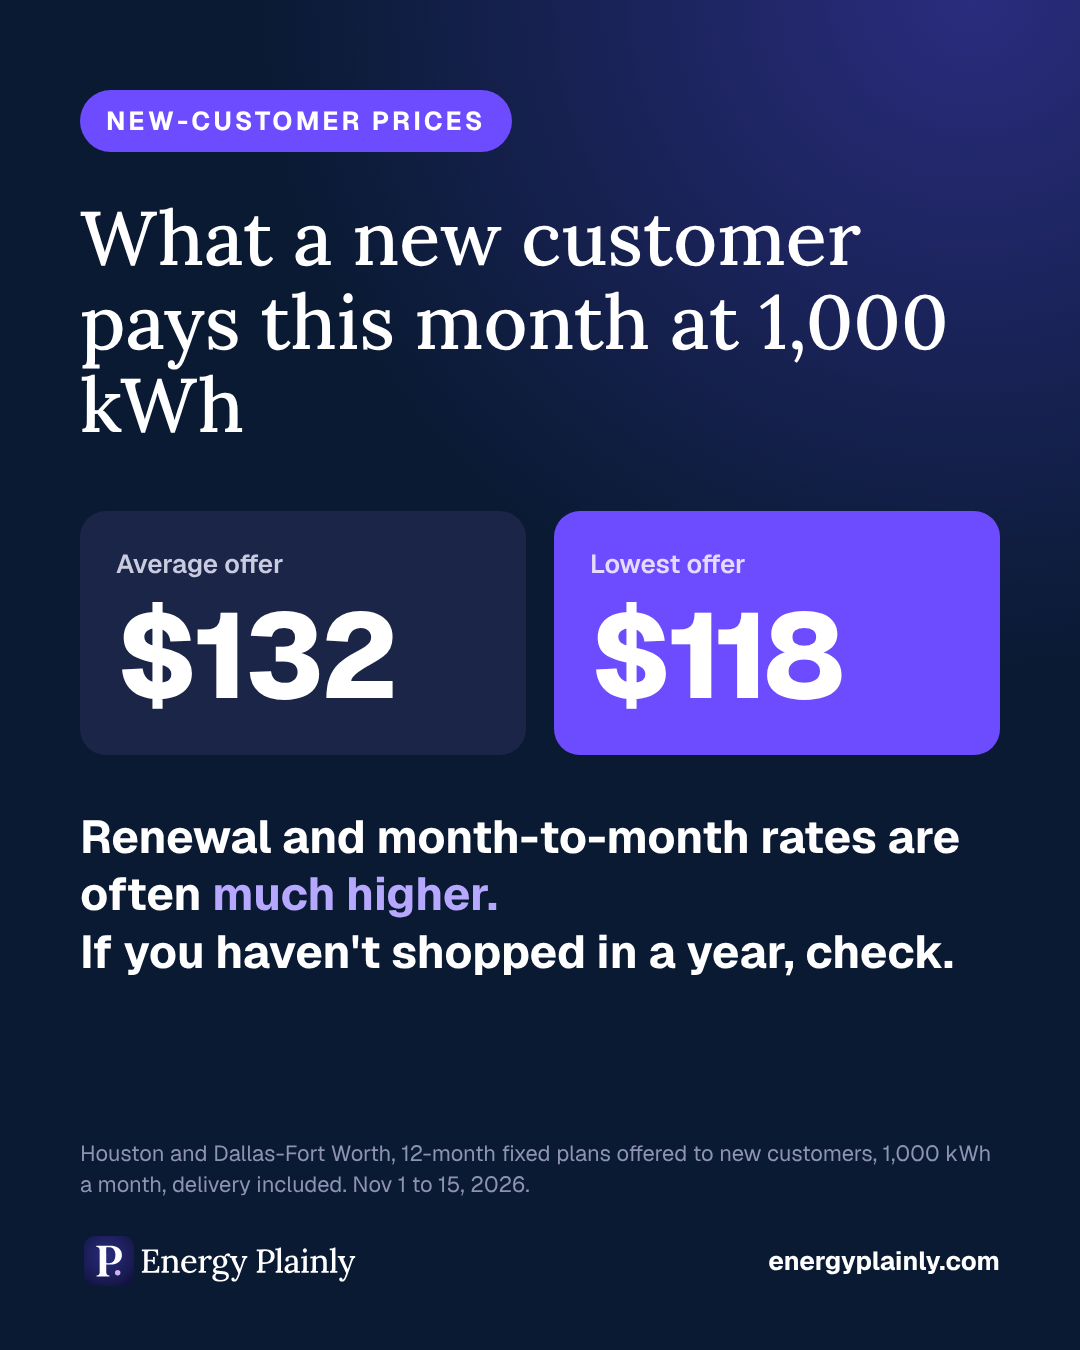
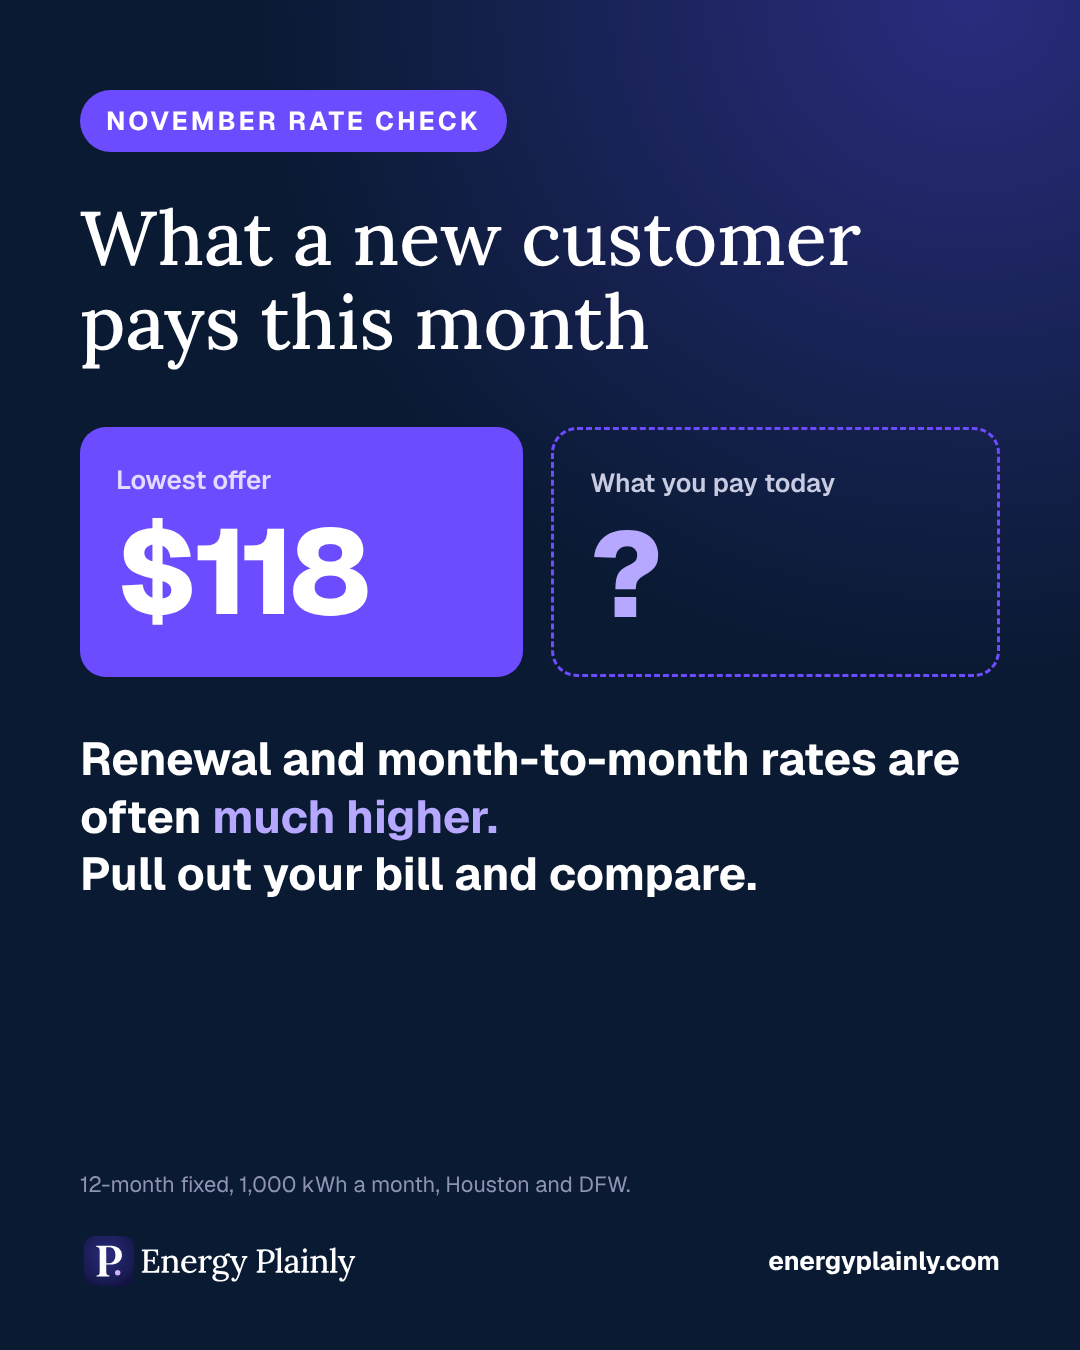
Monday graphic: lowest offer vs what you pay today
Claude-Session: https://claude.ai/code/session_016YujXcyb4c2Cg3KhuFQ5Hr

diff --git a/templates/v2/report-nov.html b/templates/v2/report-nov.html
@@ -4,15 +4,15 @@ body{background:radial-gradient(120% 90% at 90% 0%,#2A2C7E 0%,#0A1A33 55%);color
 h1{font-family:Lora,serif;font-weight:500;font-size:76px;line-height:1.1;margin-top:44px}
 .row{display:flex;gap:28px;margin-top:64px}
 .box{flex:1;border-radius:26px;padding:36px 36px 40px}
-.a{background:#1B2547}.c{background:#6D4CFF}
+.a{background:#1B2547}.q{border:3px dashed #6D4CFF;background:transparent}.q .v{color:#B7A8FF}.c{background:#6D4CFF}
 .lbl{font-size:26px;font-weight:600;color:#C9CCE0}.c .lbl{color:#E4DCFF}
 .v{font-weight:800;font-size:120px;letter-spacing:-.04em;line-height:1;margin-top:14px}
 .save{margin-top:54px;font-size:46px;font-weight:700;line-height:1.25}.save em{font-style:normal;color:#B7A8FF}
 .note{position:absolute;left:80px;right:80px;bottom:150px;font-size:22px;color:#8E93B3;line-height:1.4}
 </style></head><body>
-<span class="tag">NEW-CUSTOMER PRICES</span>
-<h1>What a new customer pays this month at 1,000 kWh</h1>
-<div class="row"><div class="box a"><div class="lbl">Average offer</div><div class="v">$132</div></div><div class="box c"><div class="lbl">Lowest offer</div><div class="v">$118</div></div></div>
-<p class="save">Renewal and month-to-month rates are often <em>much higher.</em><br>If you haven't shopped in a year, check.</p>
-<div class="note">Houston and Dallas-Fort Worth, 12-month fixed plans offered to new customers, 1,000 kWh a month, delivery included. Nov 1 to 15, 2026.</div>
+<span class="tag">NOVEMBER RATE CHECK</span>
+<h1>What a new customer pays this month</h1>
+<div class="row"><div class="box c"><div class="lbl">Lowest offer</div><div class="v">$118</div></div><div class="box a q"><div class="lbl">What you pay today</div><div class="v">?</div></div></div>
+<p class="save">Renewal and month-to-month rates are often <em>much higher.</em><br>Pull out your bill and compare.</p>
+<div class="note">12-month fixed, 1,000 kWh a month, Houston and DFW.</div>
 <footer><img src="logo-white.svg"><span>energyplainly.com</span></footer></body></html>
